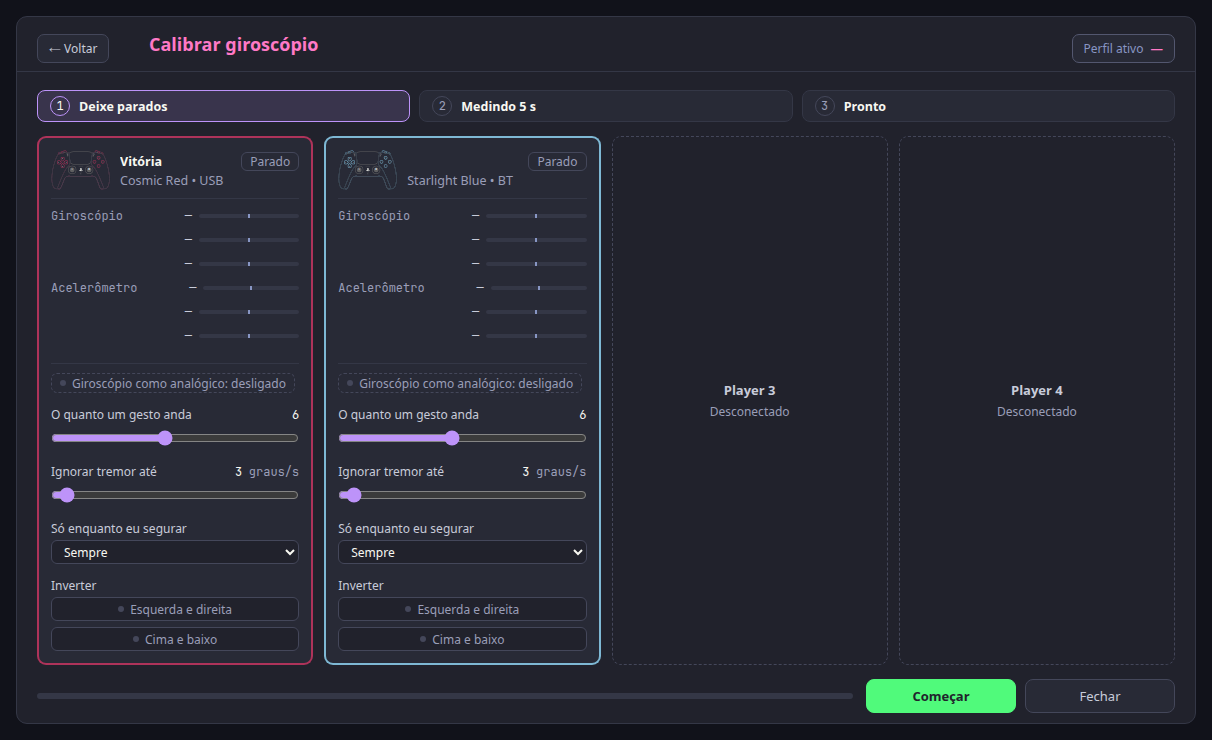
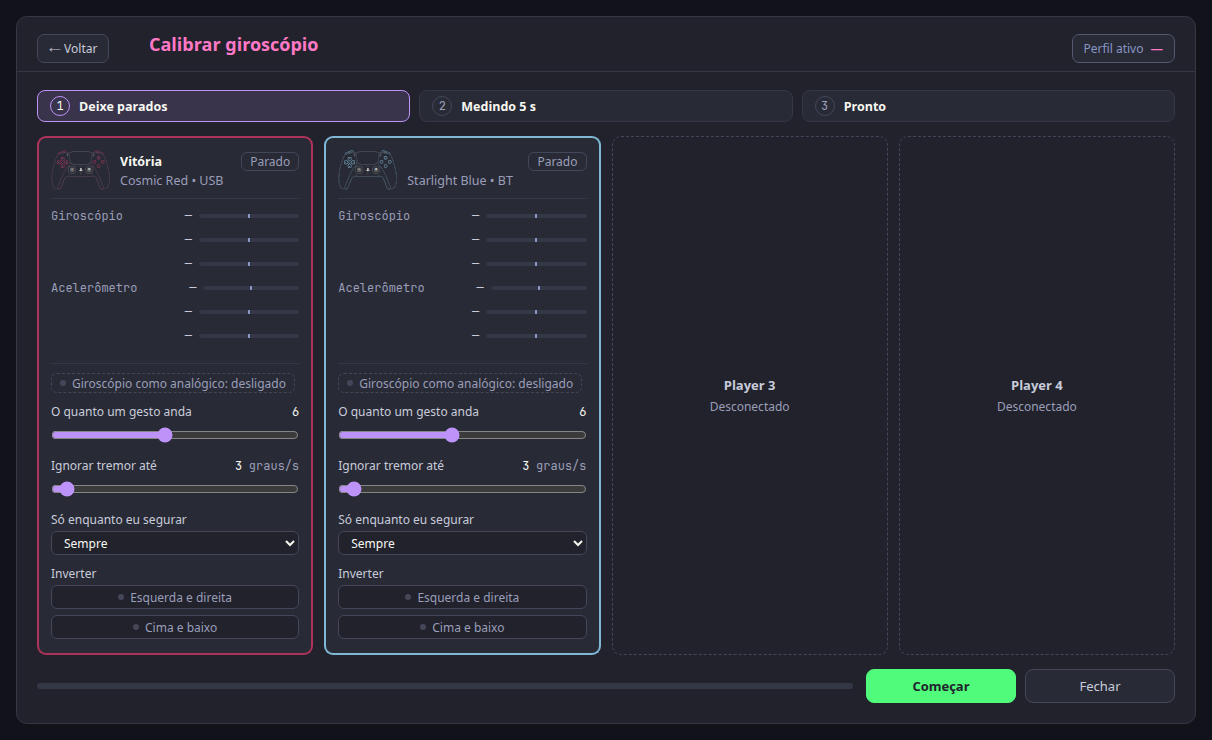
docs(mockups): na rodada 4 a Calibrar cabe sem corte em 1212x740

diff --git a/docs/research/2026-10-12-a-volta/paginas/todo-das-abas/todo/rodada-4/calibrar-sensores.html b/docs/research/2026-10-12-a-volta/paginas/todo-das-abas/todo/rodada-4/calibrar-sensores.html
@@ -358,6 +358,8 @@ button[data-dica],a[data-dica],select[data-dica],input[data-dica],[role="button"
 .lugar span{font-size:12px}
 /* Sem o nome repetido, o fio de cima da mira dobrava com o da leitura: fica um só. */
 .mira::before{display:none}
+/* Em 1212x740 o respiro de antes passava 10 px do corpo: só ali o passo da mira encolhe de 13 para 10 px. */
+@media (max-height:760px){.mira{gap:10px}}
 </style>
 <style data-todo-css="alvos-r4">
 /* Rodada 4: a sua resposta de 13/10 (~23h40), botões e letra: todo alvo de toque com 24 px e nenhuma letra abaixo de 12 px. ?alvos=hoje mostra a tela sem a mudança. */
